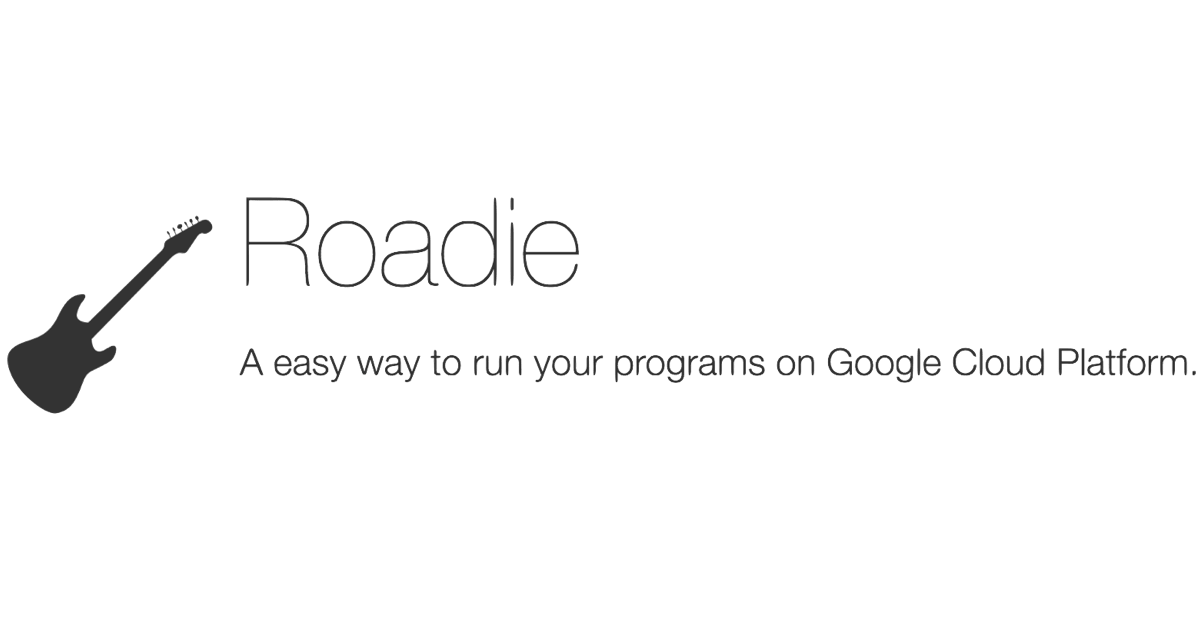
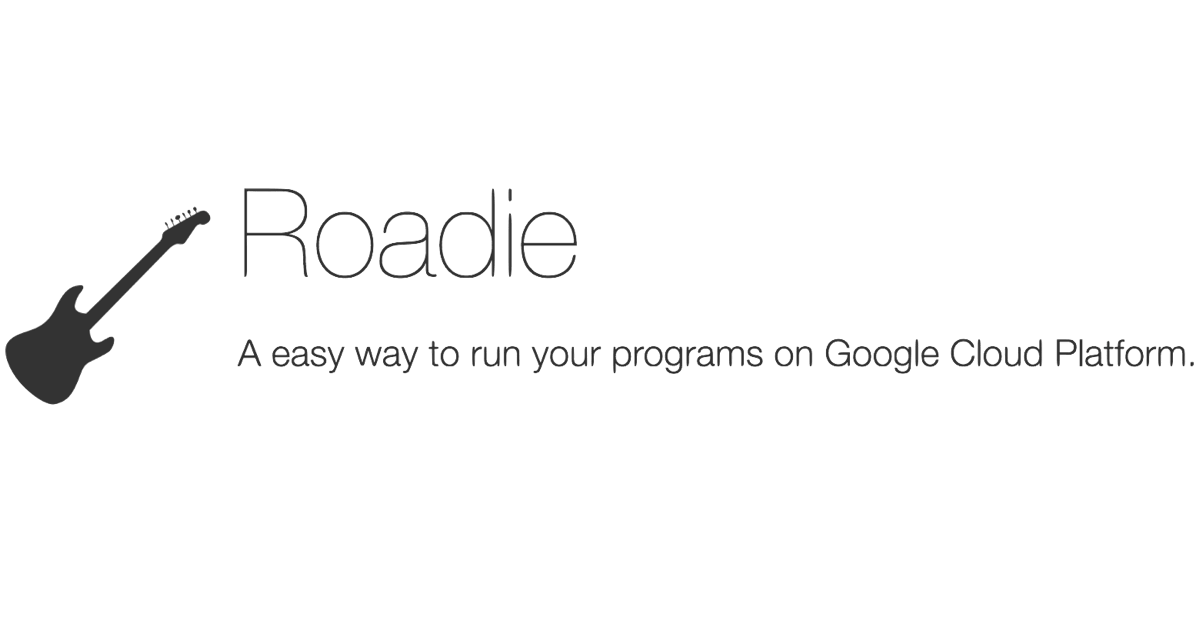
Update documentation

diff --git a/description/index.html b/description/index.html
@@ -33,6 +33,8 @@
   <meta property="og:site_name"  content="Roadie: A easy way to run your programs on Google Cloud Platform."/>
   
   
+  <meta property="og:image" content="https://jkawamoto.github.io/roadie/img/banner.png"/>
+  
 
   
     

diff --git a/documents-ja/configuration/index.html b/documents-ja/configuration/index.html
@@ -33,6 +33,8 @@
   <meta property="og:site_name"  content="Roadie: A easy way to run your programs on Google Cloud Platform."/>
   
   
+  <meta property="og:image" content="https://jkawamoto.github.io/roadie/img/banner.png"/>
+  
 
   
     

diff --git a/documents-ja/data/index.html b/documents-ja/data/index.html
@@ -33,6 +33,8 @@
   <meta property="og:site_name"  content="Roadie: A easy way to run your programs on Google Cloud Platform."/>
   
   
+  <meta property="og:image" content="https://jkawamoto.github.io/roadie/img/banner.png"/>
+  
 
   
     

diff --git a/documents-ja/execution/index.html b/documents-ja/execution/index.html
@@ -33,6 +33,8 @@
   <meta property="og:site_name"  content="Roadie: A easy way to run your programs on Google Cloud Platform."/>
   
   
+  <meta property="og:image" content="https://jkawamoto.github.io/roadie/img/banner.png"/>
+  
 
   
     

diff --git a/documents-ja/index.html b/documents-ja/index.html
@@ -33,6 +33,8 @@
   <meta property="og:site_name"  content="Roadie: A easy way to run your programs on Google Cloud Platform."/>
   
   
+  <meta property="og:image" content="https://jkawamoto.github.io/roadie/img/banner.png"/>
+  
 
   
     

diff --git a/documents-ja/installation/index.html b/documents-ja/installation/index.html
@@ -33,6 +33,8 @@
   <meta property="og:site_name"  content="Roadie: A easy way to run your programs on Google Cloud Platform."/>
   
   
+  <meta property="og:image" content="https://jkawamoto.github.io/roadie/img/banner.png"/>
+  
 
   
     

diff --git a/documents-ja/logging/index.html b/documents-ja/logging/index.html
@@ -33,6 +33,8 @@
   <meta property="og:site_name"  content="Roadie: A easy way to run your programs on Google Cloud Platform."/>
   
   
+  <meta property="og:image" content="https://jkawamoto.github.io/roadie/img/banner.png"/>
+  
 
   
     

diff --git a/documents-ja/queue/index.html b/documents-ja/queue/index.html
@@ -33,6 +33,8 @@
   <meta property="og:site_name"  content="Roadie: A easy way to run your programs on Google Cloud Platform."/>
   
   
+  <meta property="og:image" content="https://jkawamoto.github.io/roadie/img/banner.png"/>
+  
 
   
     

diff --git a/documents-ja/top/index.html b/documents-ja/top/index.html
@@ -33,6 +33,8 @@
   <meta property="og:site_name"  content="Roadie: A easy way to run your programs on Google Cloud Platform."/>
   
   
+  <meta property="og:image" content="https://jkawamoto.github.io/roadie/img/banner.png"/>
+  
 
   
     

diff --git a/documents/configuration/index.html b/documents/configuration/index.html
@@ -33,6 +33,8 @@
   <meta property="og:site_name"  content="Roadie: A easy way to run your programs on Google Cloud Platform."/>
   
   
+  <meta property="og:image" content="https://jkawamoto.github.io/roadie/img/banner.png"/>
+  
 
   
     

diff --git a/documents/data/index.html b/documents/data/index.html
@@ -33,6 +33,8 @@
   <meta property="og:site_name"  content="Roadie: A easy way to run your programs on Google Cloud Platform."/>
   
   
+  <meta property="og:image" content="https://jkawamoto.github.io/roadie/img/banner.png"/>
+  
 
   
     

diff --git a/documents/execution/index.html b/documents/execution/index.html
@@ -33,6 +33,8 @@
   <meta property="og:site_name"  content="Roadie: A easy way to run your programs on Google Cloud Platform."/>
   
   
+  <meta property="og:image" content="https://jkawamoto.github.io/roadie/img/banner.png"/>
+  
 
   
     
